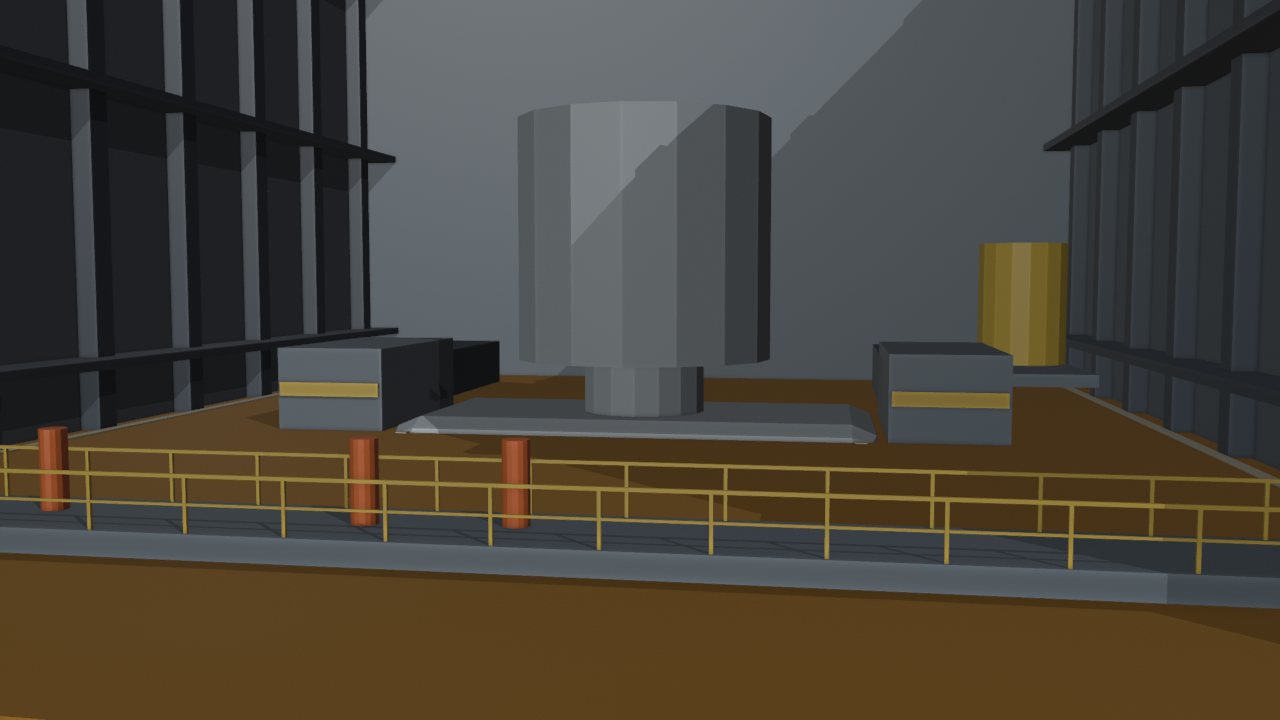
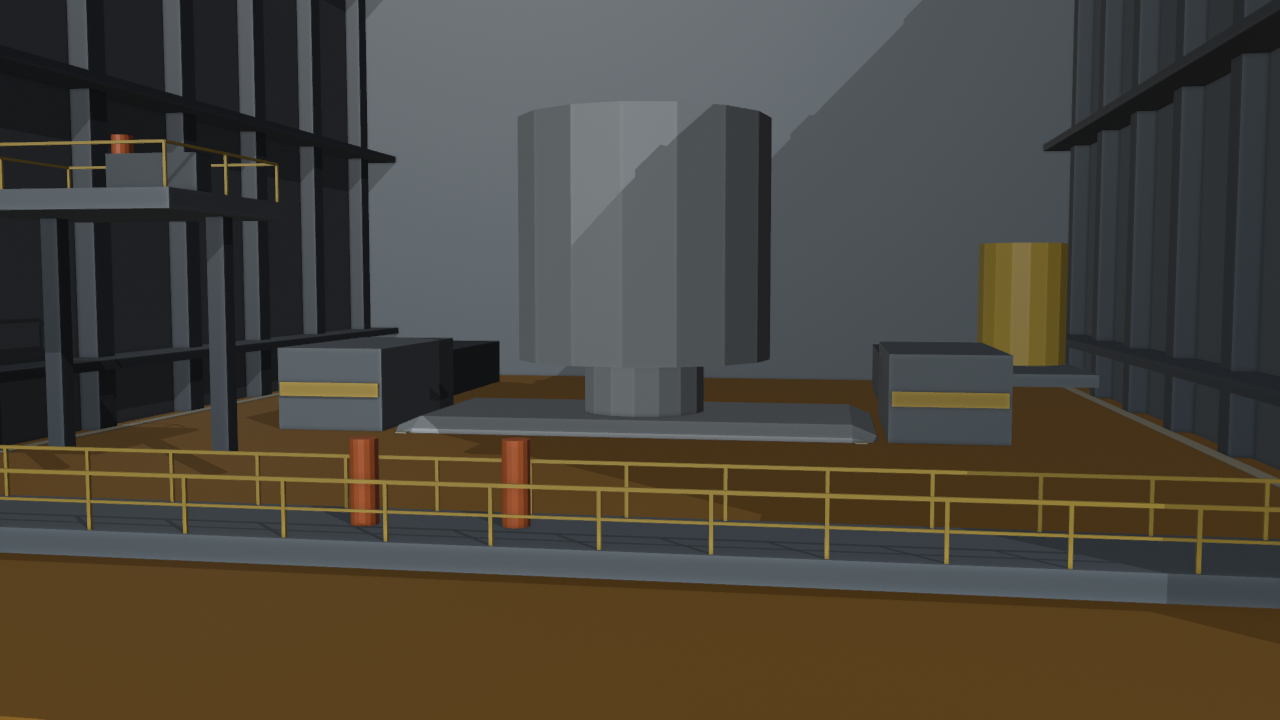
Fix Yotan position on elevated dock command platform

Changed region(s): [[0.0, 0.1833, 0.2188, 0.7333], [0.1562, 0.3056, 0.1875, 0.6417], [0.1875, 0.275, 0.2188, 0.3056]]

diff --git a/03_SCRIPTS/70_sovangelion/previs_dock/build_set.py b/03_SCRIPTS/70_sovangelion/previs_dock/build_set.py
@@ -41,8 +41,22 @@ for y in [Y-1.4,Y+1.4]:
  for x in range(-19,20,2):box('Railing post 1.1m',(x,y,Z+.55),(.07,.07,1.1),rail)
  box('Railing top',(0,y,Z+1.1),(40,.07,.07),rail)
  box('Railing middle',(0,y,Z+.55),(40,.05,.05),rail)
-for name,x,y in [('Yametaro position',-2,Y),('Fukuchan position',1,Y+.3),('Yotan position',-9,Y+.3)]:
+for name,x,y in [('Yametaro position',-2,Y),('Fukuchan position',1,Y+.3)]:
  cyl(name+' HUMAN 1.7m cylinder',(x,y,Z+.85),.28,1.7,human)
+# Yotan alone on elevated command platform, 7m above the two-person bridge.
+CZ=Z+7
+box('Elevated command platform YOTAN',( -15,-6,CZ-.25),(7,6,.5),steel)
+box('Command console',(-13,-7,CZ+.5),(2.5,.7,1),dark)
+cyl('Yotan position HUMAN 1.7m cylinder elevated',(-15,-5.5,CZ+.85),.28,1.7,human)
+for x in [-18.3,-11.7]:
+ for y in [-8.8,-6,-3.2]:box('Command railing post',(x,y,CZ+.55),(.07,.07,1.1),rail)
+ box('Command side handrail',(x,-6,CZ+1.1),(.07,5.6,.07),rail)
+for y in [-8.8,-3.2]:
+ box('Command front back handrail',(-15,y,CZ+1.1),(6.6,.07,.07),rail)
+for x in [-17.5,-12.5]:box('Command platform supports',(x,-5,CZ-3.5),(.5,.5,7),dark)
+# Keep command station inside establishing frame.
+for obj in list(bpy.context.scene.objects):
+ if obj.name.startswith(('Command ', 'Elevated command', 'Yotan position')): obj.location.x += 3
 # One visibly separate peripheral prop cylinder, no staged character image.
 cyl('Mug placeholder rack',(15,16,53),1.8,5,rail)
 box('Mug rack',(15,16,50),(5,6,.5),steel)
